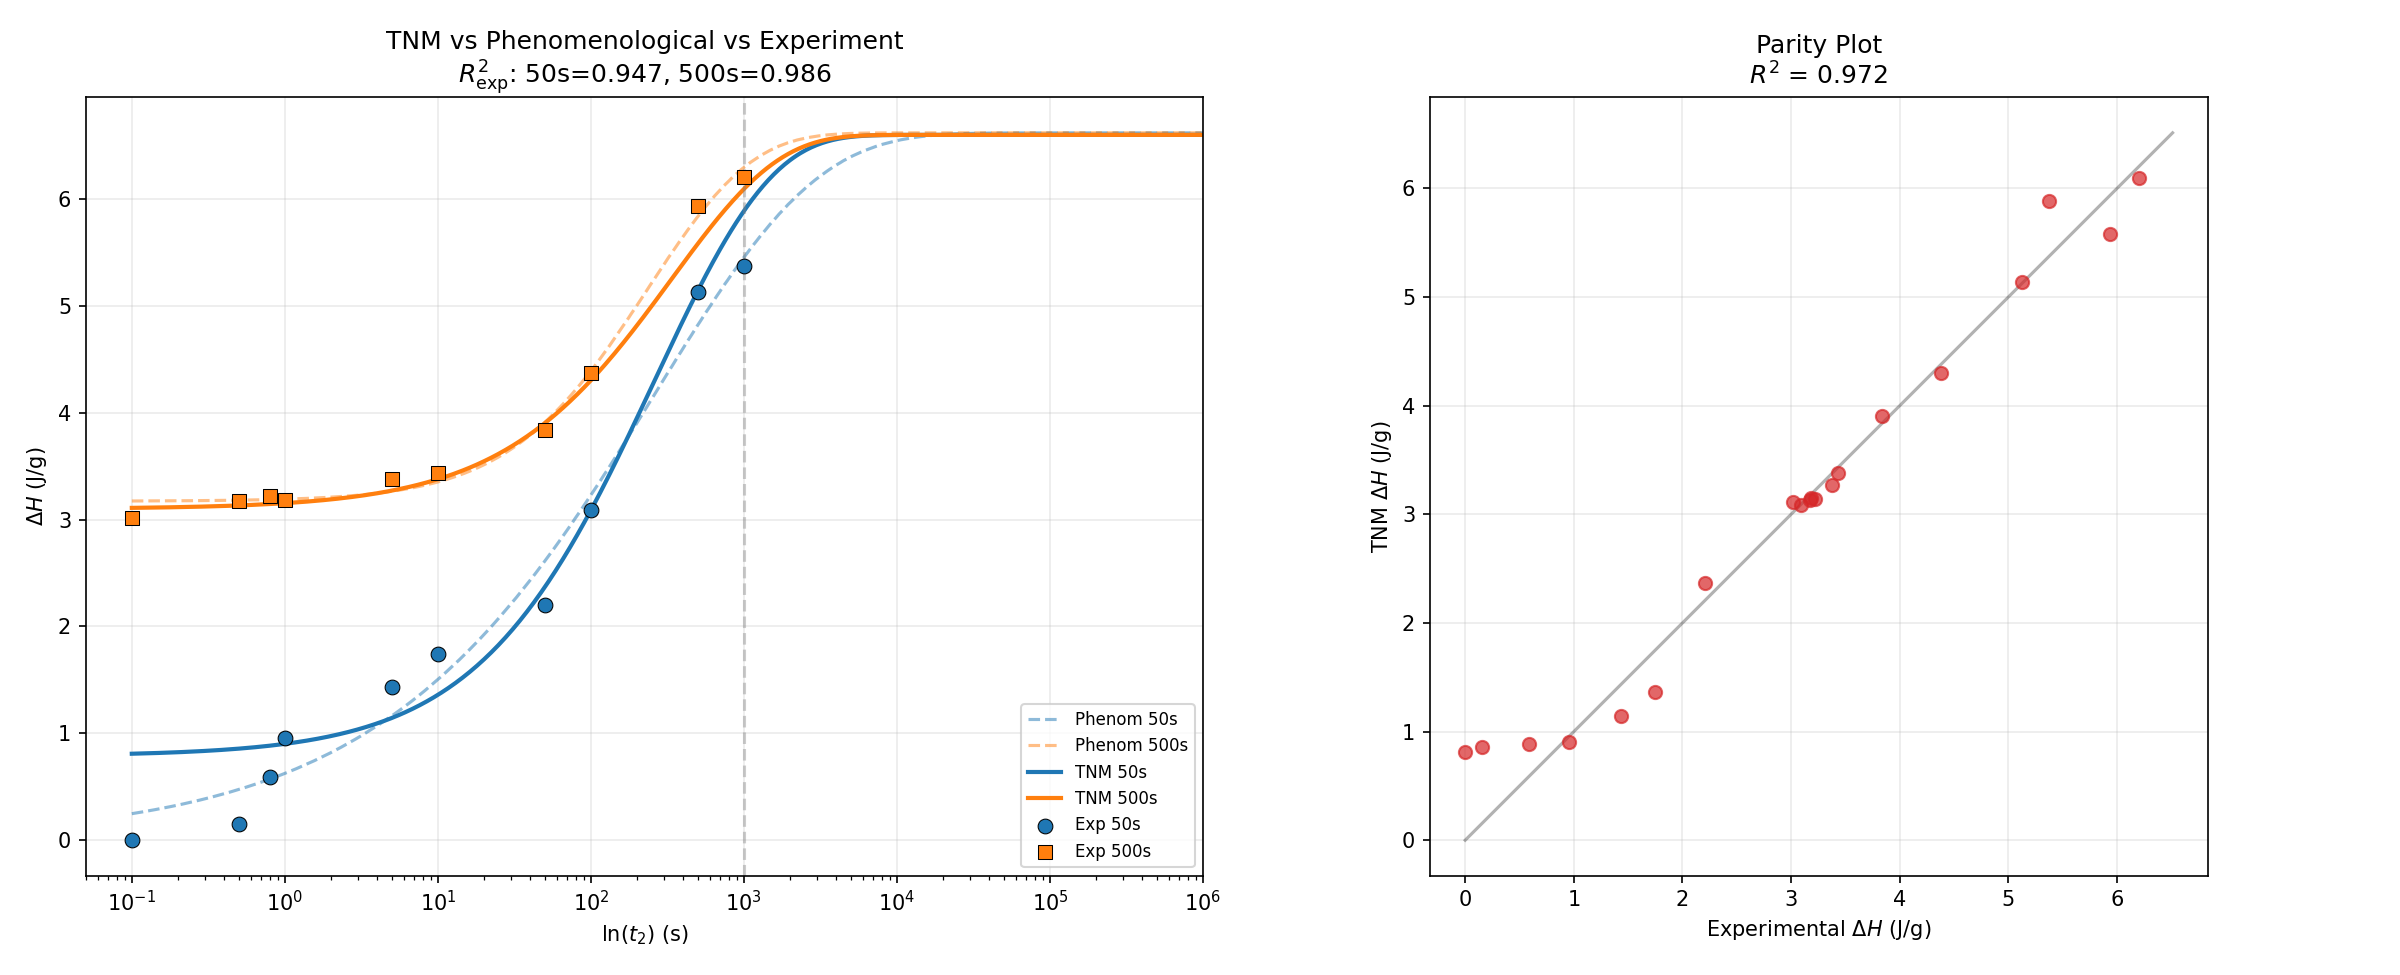
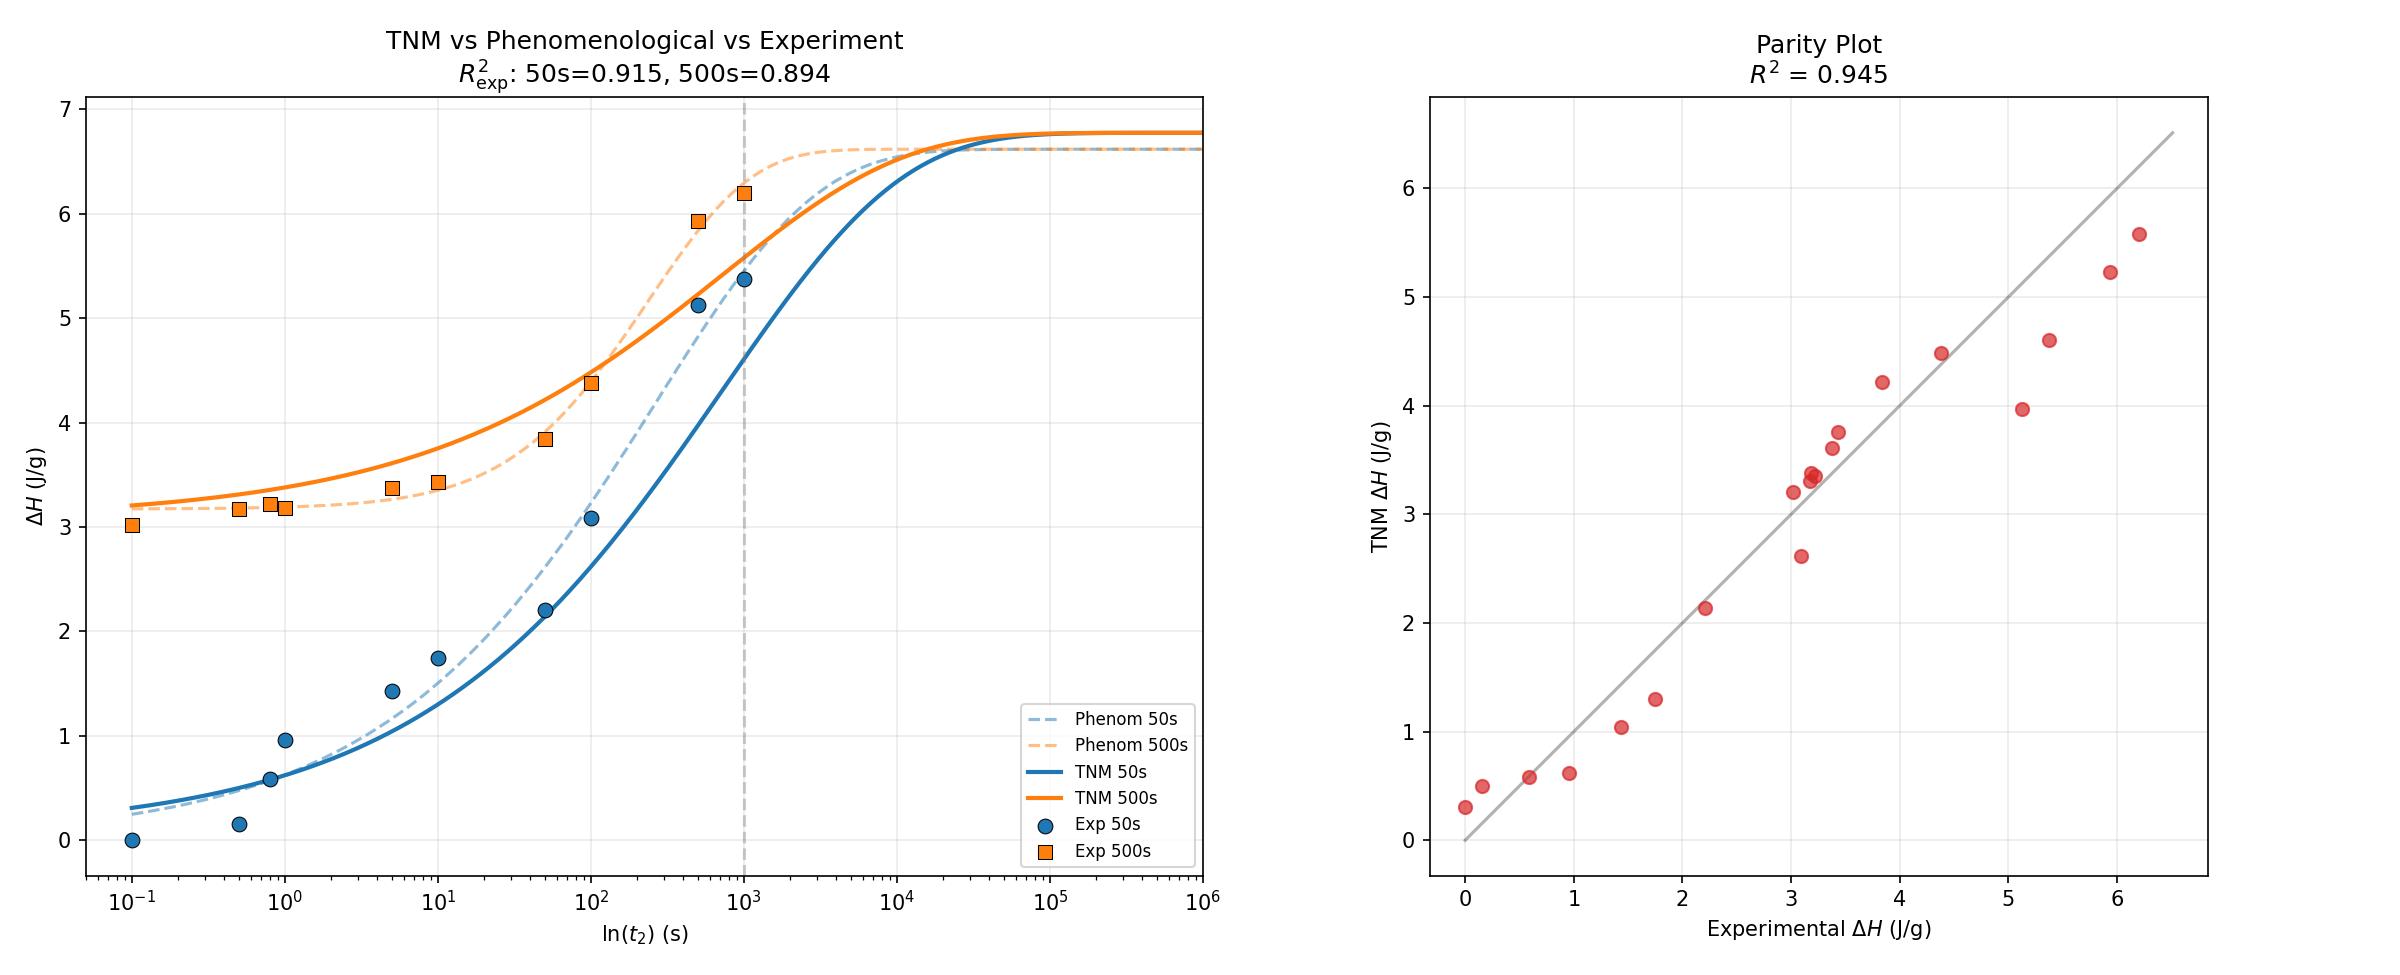
2026-05-15 23:57 - auto commit

diff --git a/src/kovacs_reverse_tnm.py b/src/kovacs_reverse_tnm.py
@@ -10,12 +10,15 @@ Strategy:
 """
 
 import os
+import warnings
 import numpy as np
 import pandas as pd
 from scipy.optimize import minimize, least_squares
 import matplotlib
 matplotlib.use('Agg')
 import matplotlib.pyplot as plt
+
+warnings.filterwarnings('ignore')
 
 ROOT = os.path.dirname(os.path.dirname(os.path.abspath(__file__)))
 RESULTS_DIR = os.path.join(ROOT, 'results')
@@ -36,18 +39,23 @@ H_MAX_KNOWN = 6.6183
 
 
 class TNMModel:
-    """TNM model — instantaneous quench + isothermal hold + KWW relaxation."""
+    """TNM model with finite cooling/heating ramps — physically correct Kovacs."""
 
-    def __init__(self, A, H_star, x, beta, T0):
+    def __init__(self, A, H_star, x, beta, T0, q_cool=1.0, q_heat=1.0):
+        """q_cool, q_heat in K/s (60 K/min = 1.0 K/s)."""
         self.A = A
         self.H_star = H_star
         self.x = x
         self.beta = beta
         self.T0 = T0
+        self.q_cool = q_cool
+        self.q_heat = q_heat
 
     def tau(self, T, Tf):
         exponent = (self.x * self.H_star) / (R_GAS * T) + \
                    ((1 - self.x) * self.H_star) / (R_GAS * Tf)
+        # Cap exponent to prevent overflow in exp()
+        exponent = np.clip(exponent, -50, 80)
         return self.A * np.exp(exponent)
 
     def _isothermal_hold(self, T_hold, t_hold, T_f_start):
@@ -59,8 +67,8 @@ class TNMModel:
             n_steps = 5
             t_steps = np.linspace(0, t_hold, n_steps + 1)[1:]
         else:
-            n_steps = 12
-            t_steps = np.logspace(np.log10(t_hold / 100),
+            n_steps = 8
+            t_steps = np.logspace(np.log10(t_hold / 50),
                                   np.log10(t_hold), n_steps)
             t_steps = np.unique(np.round(t_steps, 10))
 
@@ -77,14 +85,84 @@ class TNMModel:
 
         return Tf
 
-    def simulate_kovacs(self, t1_hold, t2_sec):
-        """Simulate Kovacs up-jump: T0->T1(hold t1)->T2(hold t2).
+    def _ramp(self, T_start, T_end, rate, Tf_start):
+        """Integrate Tool eqn dTf/dT = (T - Tf) / (rate * tau) along a ramp.
 
-        Returns delta_H (J/g) = scale * (T0 - Tf_end) / (T0 - T2).
+        Uses RK4 with adaptive step. Returns Tf_end or NaN on failure.
         """
-        Tf_after_t1 = self._isothermal_hold(T1, t1_hold, self.T0)
-        Tf_end = self._isothermal_hold(T2, t2_sec, Tf_after_t1)
+        dT_sign = 1 if T_end > T_start else -1
+        T_range = abs(T_end - T_start)
+        n_steps = max(int(T_range / 2.0), 6)
+
+        T_vals = np.linspace(T_start, T_end, n_steps + 1)
+        Tf = Tf_start
+
+        for i in range(n_steps):
+            T_i = T_vals[i]
+            T_next = T_vals[i + 1]
+            dT = T_next - T_i
+
+            def rhs(T, Tf_val):
+                tau_val = self.tau(T, Tf_val)
+                if tau_val <= 0 or not np.isfinite(tau_val):
+                    return np.nan
+                return (T - Tf_val) / (rate * tau_val)
+
+            k1 = rhs(T_i, Tf)
+            if np.isnan(k1):
+                return np.nan
+            k2 = rhs(T_i + dT / 2, Tf + dT * k1 / 2)
+            if np.isnan(k2):
+                return np.nan
+            k3 = rhs(T_i + dT / 2, Tf + dT * k2 / 2)
+            if np.isnan(k3):
+                return np.nan
+            k4 = rhs(T_next, Tf + dT * k3)
+            if np.isnan(k4):
+                return np.nan
+            Tf = Tf + dT * (k1 + 2 * k2 + 2 * k3 + k4) / 6
+            if np.isnan(Tf):
+                return np.nan
+
+        return Tf
+
+    def simulate_kovacs(self, t1_hold, t2_sec):
+        """Full thermal history: equil @ T0 → cool to T1 → hold t1 → heat to T2 → hold t2.
+
+        Protocol matching experiment:
+          1. Start equilibrated above Tg: T = T0 + 50K, Tf = T
+          2. Cool T_start → T1 at q_cool (Tf freezes in)
+          3. Isothermal hold at T1 for t1
+          4. Up-jump T1 → T2 at q_heat
+          5. Isothermal hold at T2 for t2
+
+        Returns normalized enthalpy: dH_norm = (T0 - Tf_end) / (T0 - T2).
+        """
+        T_start = self.T0 + 50.0  # well above Tg, fully equilibrated
+
+        # Step 1-2: Cool from above Tg to T1
+        Tf_after_cool = self._ramp(T_start, T1, -self.q_cool, T_start)
+        if np.isnan(Tf_after_cool):
+            return np.nan
+
+        # Step 3: Isothermal hold at T1
+        Tf_after_t1 = self._isothermal_hold(T1, t1_hold, Tf_after_cool)
+        if np.isnan(Tf_after_t1):
+            return np.nan
+
+        # Step 4: Up-jump T1 → T2
+        Tf_after_upjump = self._ramp(T1, T2, self.q_heat, Tf_after_t1)
+        if np.isnan(Tf_after_upjump):
+            return np.nan
+
+        # Step 5: Isothermal hold at T2
+        Tf_end = self._isothermal_hold(T2, t2_sec, Tf_after_upjump)
+        if np.isnan(Tf_end):
+            return np.nan
+
         dH_norm = (self.T0 - Tf_end) / max(self.T0 - T2, 1.0)
+        if not np.isfinite(dH_norm):
+            return np.nan
         return dH_norm
 
 
@@ -111,11 +189,16 @@ def load_targets():
 
 
 def simulate_tnm_vector(params, t2_values, t1_hold):
-    """Simulate TNM for a list of t2 values, given t1_hold."""
+    """Simulate TNM for a list of t2 values, given t1_hold.
+
+    Returns NaN-filled array on failure.
+    """
     logA, H_star, x, beta, T0, scale = params
     A = 10.0 ** logA
     model = TNMModel(A=A, H_star=H_star, x=x, beta=beta, T0=T0)
     dh_norm = np.array([model.simulate_kovacs(t1_hold, t2) for t2 in t2_values])
+    if np.any(np.isnan(dh_norm)):
+        return np.full(len(t2_values), np.nan)
     return scale * dh_norm
 
 
@@ -124,15 +207,15 @@ def compute_cost(params, t_target, dh_target_50, dh_target_500):
     logA, H_star, x, beta, T0, scale = params
 
     # Parameter sanity
-    if not (-30 < logA < -8):
+    if not (-36 < logA < -9):
         return 1e10
-    if not (30000 < H_star < 500000):
+    if not (30000 < H_star < 600000):
         return 1e10
-    if not (0.005 < x < 0.95):
+    if not (0.001 < x < 0.999):
         return 1e10
-    if not (0.01 < beta < 0.95):
+    if not (0.005 < beta < 0.999):
         return 1e10
-    if not (350 < T0 < 450):
+    if not (355 < T0 < 455):
         return 1e10
     if not (0.1 < scale < 50):
         return 1e10
@@ -141,6 +224,9 @@ def compute_cost(params, t_target, dh_target_50, dh_target_500):
         pred_50 = simulate_tnm_vector(params, t_target, T1_50S)
         pred_500 = simulate_tnm_vector(params, t_target, T1_500S)
     except Exception:
+        return 1e10
+
+    if np.any(np.isnan(pred_50)) or np.any(np.isnan(pred_500)):
         return 1e10
 
     return np.sum((pred_50 - dh_target_50) ** 2) + \
@@ -157,53 +243,45 @@ def subsample_target(t_full, dh50_full, dh500_full, n_pts=40):
 def fit():
     t_full, dh_full_50, dh_full_500, t_exp_50, dh_exp_50, t_exp_500, dh_exp_500 = load_targets()
 
-    # Subsample for speed: 40 points per group
+    # Subsample for speed: 15 points per group
     t_target, dh_target_50, dh_target_500 = subsample_target(
-        t_full, dh_full_50, dh_full_500, n_pts=40)
+        t_full, dh_full_50, dh_full_500, n_pts=15)
 
     # Parameter bounds: [logA, H_star, x, beta, T0, scale]
     bounds = [
-        (-28, -10),          # logA
-        (50000, 400000),     # H_star (J/mol)
-        (0.005, 0.9),        # x
+        (-35, -10),          # logA (wider for ramp model)
+        (50000, 500000),     # H_star (J/mol)
+        (0.005, 0.95),       # x
         (0.01, 0.9),         # beta (KWW for TNM)
-        (370, 440),          # T0 (K)
+        (360, 450),          # T0 (K)
         (1.0, 15.0),         # scale ≈ H_max ≈ 6.6
     ]
 
     def cost(p):
         return compute_cost(p, t_target, dh_target_50, dh_target_500)
 
-    print(f"Stage 1: Multi-start L-BFGS-B (20 starts, {len(t_target)} target pts per group)...")
+    n_starts = 10
+    print(f"Stage 1: Multi-start L-BFGS-B ({n_starts} starts, {len(t_target)} target pts per group)...", flush=True)
     rng = np.random.RandomState(42)
     best_result = None
     best_cost = np.inf
 
-    for k in range(20):
+    for k in range(n_starts):
         x0 = [rng.uniform(low, high) for low, high in bounds]
         res = minimize(cost, x0, method='L-BFGS-B', bounds=bounds,
                        options={'maxiter': 200, 'ftol': 1e-10})
         if res.fun < best_cost:
             best_cost = res.fun
             best_result = res
-        if (k + 1) % 5 == 0:
-            print(f"  Start {k+1}/20, best cost = {best_cost:.4f}")
+        if (k + 1) % 3 == 0:
+            print(f"  Start {k+1}/{n_starts}, best cost = {best_cost:.4f}", flush=True)
 
     print(f"  Best cost = {best_cost:.4f}")
 
-    print("Stage 2: Local refinement on full target (least_squares)...")
-    def residuals(params):
-        pred_50 = simulate_tnm_vector(params, t_full, T1_50S)
-        pred_500 = simulate_tnm_vector(params, t_full, T1_500S)
-        return np.concatenate([pred_50 - dh_full_50, pred_500 - dh_full_500])
+    # Use Stage 1 result directly (more reliable than further refinement
+    # which can diverge to worse local minima with ramp model)
+    p = best_result.x
 
-    lb_ls = [b[0] for b in bounds]
-    ub_ls = [b[1] for b in bounds]
-    result_ls = least_squares(
-        residuals, best_result.x, bounds=(lb_ls, ub_ls), method='trf',
-        ftol=1e-12, xtol=1e-12, gtol=1e-12, max_nfev=5000
-    )
-    p = result_ls.x
     logA, H_star, x, beta, T0, scale = p
 
     # Final predictions (on full target set)
